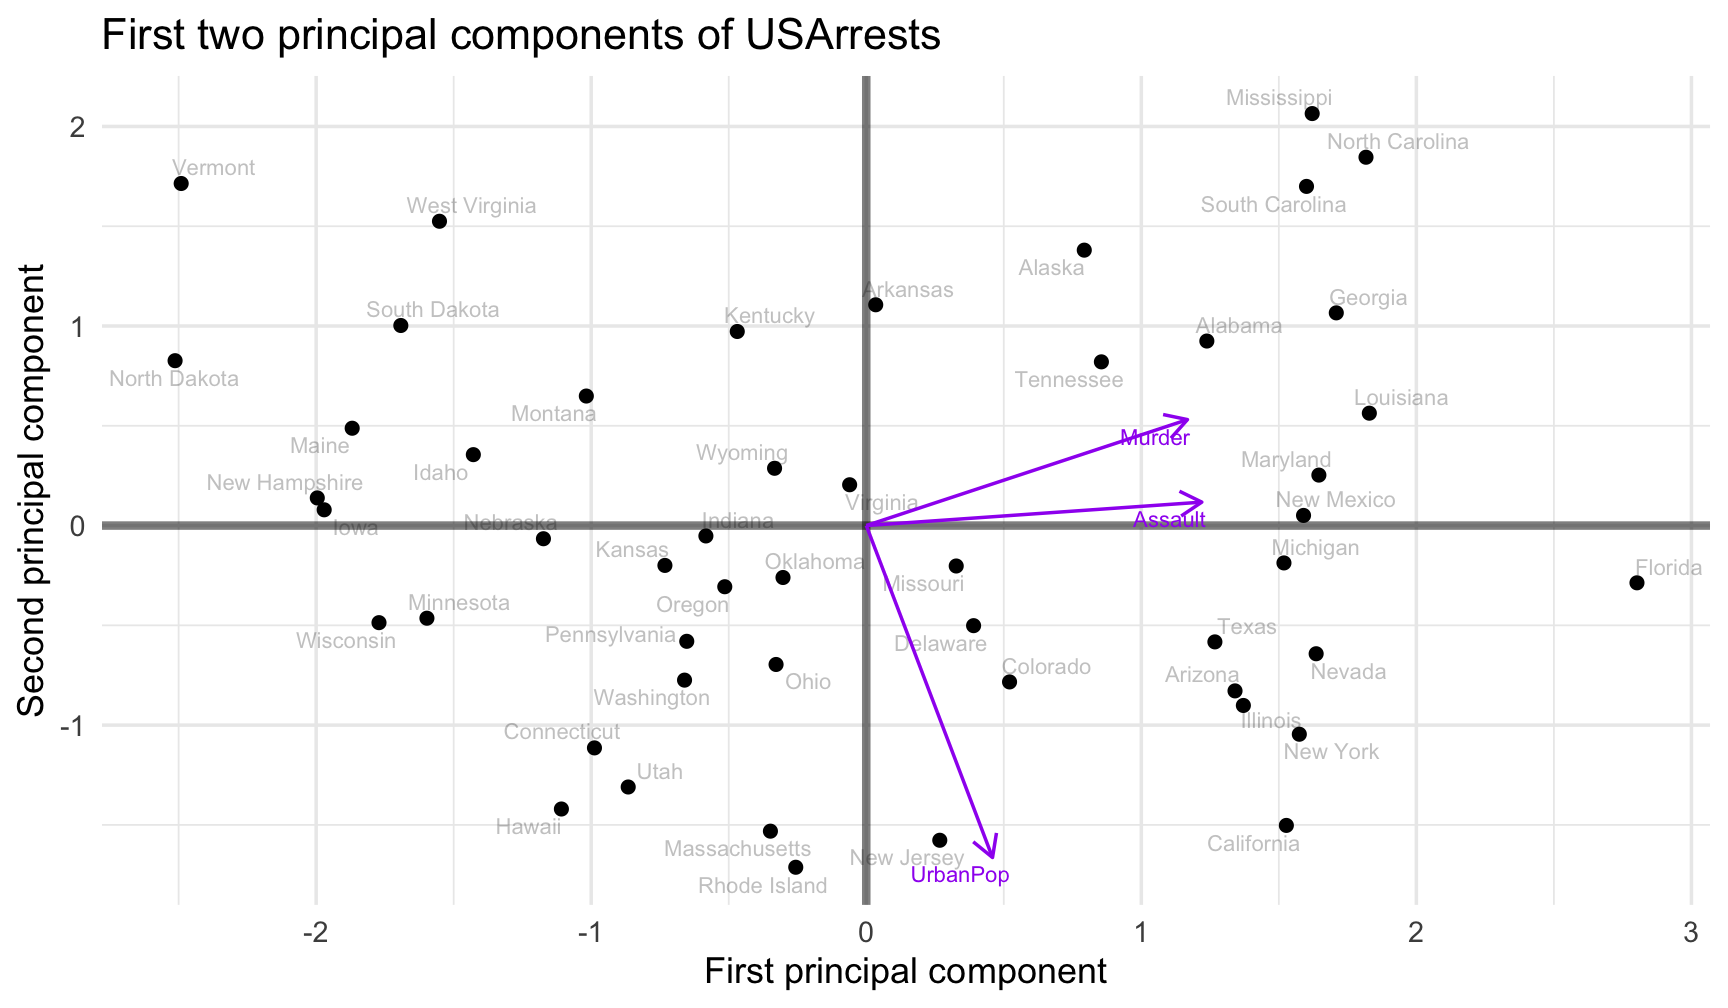
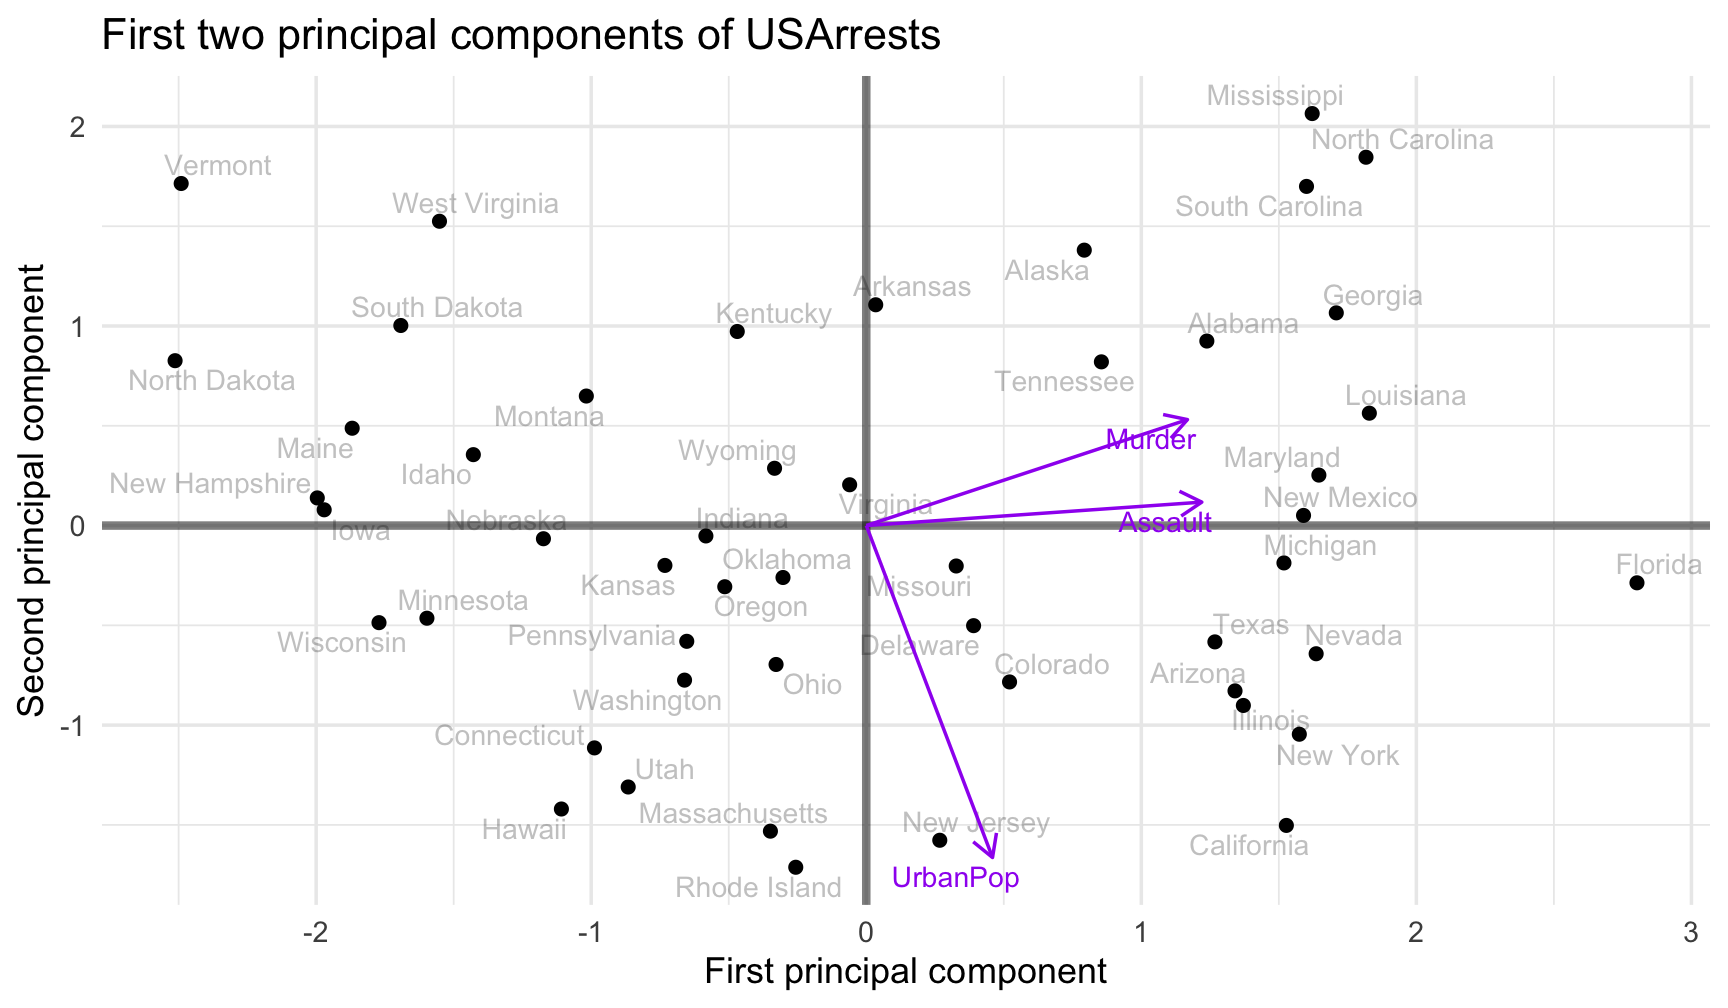
update matrix formatting

diff --git a/docs/06-matrix-inversion-decomposition.html b/docs/06-matrix-inversion-decomposition.html
@@ -131,9 +131,11 @@ x_{41} &amp; x_{42} &amp; x_{43}  \\
 * `$$\mid \mathbf{X} \mid = \sum_{j=1}^n (-1)^{i+j} x_{ij} \mid\mathbf{X}_{[ij]}\mid$$`
   * NOTE: we can add across any one row or column (just be consistent)
 
-* `\(ij\)`th **minor** of `\(\mathbf{X}\)` for `\(x_{ij}\)`, `\(\mid\mathbf{X}_{[ij]}\mid\)`
-    * Determinant of the `\((n - 1) \times (n - 1)\)` submatrix that results from taking the `\(i\)`th row and `\(j\)`th column out
-    * Refer to this resulting submatrix as `\(\mathbf{M_{ij}}\)`
+* `\(ij\)`th **minor** of `\(\mathbf{X}\)` for `\(x_{ij}\)`
+    * The **submatrix** `\(\mathbf{X}_{[ij]}\)` is what remains after deleting the
+      `\(i\)`th row and `\(j\)`th column --- an `\((n-1) \times (n-1)\)` matrix
+    * The **minor** `\(M_{ij} = \mid \mathbf{X}_{[ij]} \mid\)` is its determinant ---
+      a single number
 * **Cofactor** of `\(\mathbf{X}\)`
     * Minor signed as `\((-1)^{i+j}\mid\mathbf{X}_{[ij]}\mid\)`
 * Cycle recursively through columns
@@ -201,7 +203,7 @@ You can also create the cofactor matrix using your work from the determinant wor
 `\(\mathbf{M_{33}} = \left|\begin{bmatrix}  1&amp; 2 \\ 2 &amp; 1 \end{bmatrix}\right|=1-4=-3\)`
 
 ---
-# Answer: `\(3 \times 3 matrix\)`
+# Answer: `\(3 \times 3\)` matrix
 * Create cofactor matrix
 `$$\begin{aligned}\begin{bmatrix}
 1 \mathbf{M_{11}} &amp; -1\mathbf{M_{12}} &amp; 1\mathbf{M_{13}} \\
@@ -220,7 +222,7 @@ You can also create the cofactor matrix using your work from the determinant wor
 \end{bmatrix}\end{aligned}$$`
 ---
 
-# Answer: `\(3 \times 3 matrix\)`
+# Answer: `\(3 \times 3\)` matrix
 
 `$$\mid \mathbf{X} \mid = \sum_{j=1}^n (-1)^{i+j} x_{ij} \mid\mathbf{X}_{[ij]}\mid$$`
 
@@ -613,7 +615,7 @@ Y_{n} &amp; = \beta_{0} + \beta_{1} x_{n1} + \beta_{2} x_{n2} + \ldots + \beta_{
 * `\(\mathbf{x}_{i} = (1, x_{i1}, x_{i2}, \ldots, x_{ik})\)`
 
  `\(\mathbf{Y} = \begin{bmatrix}Y_{1} \\ Y_{2} \\  \vdots \\ Y_{n}\end{bmatrix}\)`, 
- `\(\boldsymbol{\beta} = \begin{bmatrix}\boldsymbol{\beta}_{0} \\ \boldsymbol{\beta}_{1} \\ \vdots \\ \boldsymbol{\beta}_{k} \end{bmatrix}\)`,
+ `\(\boldsymbol{\beta} = \begin{bmatrix}{\beta}_{0} \\ {\beta}_{1} \\ \vdots \\ {\beta}_{k} \end{bmatrix}\)`,
  `\(\mathbf{X} = \begin{bmatrix} \mathbf{x}_{1}\\\mathbf{x}_{2}\\ \vdots \\ \mathbf{x}_{n} \end{bmatrix}\)`
 
 ---
@@ -622,7 +624,7 @@ Y_{n} &amp; = \beta_{0} + \beta_{1} x_{n1} + \beta_{2} x_{n2} + \ldots + \beta_{
 
 GOAL: find `\(\boldsymbol{\beta}\)`
 `$$\begin{aligned}
-\mathbf{Y} &amp;= \mathbf{X}\mathbf{\beta} \\\end{aligned}$$`
+\mathbf{Y} &amp;= \mathbf{X}\boldsymbol{\beta} \\\end{aligned}$$`
 
 
 * Ok, so, we have an `\(\mathbf{X}\)`. We want to 'undo' it, so we need the inverse. Is it invertible? How do we make sure? 
@@ -632,23 +634,23 @@ GOAL: find `\(\boldsymbol{\beta}\)`
 * Ah, yes, we multiply it by its transpose. It will certainly be square (and likely invertible) then
 
 `$$\begin{aligned}
-\mathbf{X}^{'} \mathbf{Y} &amp;= \mathbf{X}^{'} \mathbf{X} \mathbf{\beta} \\\end{aligned}$$`
+\mathbf{X}^{'} \mathbf{Y} &amp;= \mathbf{X}^{'} \mathbf{X} \boldsymbol{\beta} \\\end{aligned}$$`
 
 --
 * Great! Now, we can 'undo' this (inverse-land)
 --
 `$$\begin{aligned}
 (\mathbf{X}^{'}\mathbf{X})^{-1} \mathbf{X}^{'} \mathbf{Y} &amp;= 
-(\mathbf{X}^{'}\mathbf{X})^{-1}\mathbf{X}^{'} \mathbf{X} \mathbf{\beta} \\ \end{aligned}$$`
+(\mathbf{X}^{'}\mathbf{X})^{-1}\mathbf{X}^{'} \mathbf{X} \boldsymbol{\beta} \\ \end{aligned}$$`
 --
 
 `$$\begin{aligned}
-(\mathbf{X}^{'}\mathbf{X})^{-1} \mathbf{X}^{'} \mathbf{Y} &amp;=\mathbf{I}\mathbf{\beta} 
+(\mathbf{X}^{'}\mathbf{X})^{-1} \mathbf{X}^{'} \mathbf{Y} &amp;=\mathbf{I}\boldsymbol{\beta} 
 \end{aligned}$$`
 
 --
 `$$\begin{aligned}
-(\mathbf{X}^{'}\mathbf{X})^{-1} \mathbf{X}^{'} \mathbf{Y} &amp;=\mathbf{\beta} 
+(\mathbf{X}^{'}\mathbf{X})^{-1} \mathbf{X}^{'} \mathbf{Y} &amp;=\boldsymbol{\beta} 
 \end{aligned}$$`
 
 ---
@@ -739,7 +741,7 @@ We can start with our eigenvalue (let's begin with `\(\lambda = -2\)`). We then 
 
 --
 
-`\(\begin{pmatrix}\lambda &amp; -4 \\ -1 &amp; \lambda\end{pmatrix}\begin{pmatrix}v_1 \\ v_2\end{pmatrix}= \begin{pmatrix}0\\ 0 \end{pmatrix\)` becomes `\(-2v_1 - 4v_2 =0\)` and
+`\(\begin{pmatrix}\lambda &amp; -4 \\ -1 &amp; \lambda\end{pmatrix}\begin{pmatrix}v_1 \\ v_2\end{pmatrix}= \begin{pmatrix}0\\ 0 \end{pmatrix}\)` becomes `\(-2v_1 - 4v_2 =0\)` and
 `\(-v_1 - 2v_2 = 0\)`
 
 --
@@ -883,9 +885,9 @@ In either case, the goal is to reduce the dimensionality of the data by identify
 
 # Calculating the PCA
 
-`$$\mathbf{M} = \mathbf{U} \boldsymbol{\Sigma} \mathbf{V}^{*}$$`
+`$$\mathbf{M} = \mathbf{U} \boldsymbol{\Sigma} \mathbf{V}^{'}$$`
 
-* `\(\mathbf{V}^{*}\)` = principal directions (eigenvector)
+* `\(\mathbf{V}^{'}\)` = principal directions (eigenvector)
 * Columns of `\(\mathbf{U} \boldsymbol{\Sigma}\)` = principal components (values along eigenvector)
 * Values of the diagonal elements of `\(\boldsymbol{\Sigma}\)` `\(\approx\)` eigenvalues
 
@@ -943,7 +945,7 @@ In either case, the goal is to reduce the dimensionality of the data by identify
 * Works with any rectangular matrix 
 * `\(\mathbf{M}\)` is an `\(m \times n\)` matrix. There exists a factorization of the form
 
-    `$$\mathbf{M} = \mathbf{U} \boldsymbol{\Sigma} \mathbf{V}^{*}$$`
+    `$$\mathbf{M} = \mathbf{U} \boldsymbol{\Sigma} \mathbf{V}^{'}$$`
 
     where
 
@@ -957,117 +959,146 @@ In either case, the goal is to reduce the dimensionality of the data by identify
 
 
 
-
-
----
-
-&lt;!-- # Image compression --&gt;
-
-&lt;!-- ```{r str-lion} --&gt;
-&lt;!-- # first rows and columns of R --&gt;
-&lt;!-- lion[1:5, 1:5] --&gt;
-&lt;!-- ``` --&gt;
+&lt;img src="06-matrix-inversion-decomposition_files/figure-html/read-image-1.png" alt="" width="864" style="display: block; margin: auto;" /&gt;
 
 ---
 
-&lt;!-- # Applying SVD --&gt;
+# Image compression
 
-&lt;!-- ```{r svd} --&gt;
-&lt;!-- lion.svd &lt;- svd(lion) --&gt;
-&lt;!-- ``` --&gt;
 
-&lt;!-- ##### `\(\mathbf{U}\)` --&gt;
-
-&lt;!-- ```{r lion-u} --&gt;
-&lt;!-- lion.svd$u[1:3, 1:3] --&gt;
-&lt;!-- ``` --&gt;
-
-&lt;!-- ##### `\(\boldsymbol{\Sigma}\)` --&gt;
-
-&lt;!-- ```{r lion-sigma} --&gt;
-&lt;!-- diag(lion.svd$d)[1:3, 1:3] --&gt;
-&lt;!-- ``` --&gt;
-
-&lt;!-- ##### `\(\mathbf{V}^{*}\)` --&gt;
-
-&lt;!-- ```{r lion-vstar} --&gt;
-&lt;!-- lion.svd$v[1:3, 1:3] --&gt;
-&lt;!-- ``` --&gt;
-
-&lt;!-- --- --&gt;
-
-&lt;!-- # Recovering the data --&gt;
-
-&lt;!-- * Multiply back together --&gt;
-
-&lt;!--     `$$\mathbf{M} = \mathbf{U} \boldsymbol{\Sigma} \mathbf{V}^{*}$$` --&gt;
-
-&lt;!-- ```{r svd-recombine} --&gt;
-&lt;!-- svd.rank(lion.svd, j = ncol(lion))[1:5, 1:5] --&gt;
-&lt;!-- ``` --&gt;
-
-&lt;!-- --- --&gt;
-
-&lt;!-- # Data reduction --&gt;
-
-&lt;!-- * `\(\boldsymbol{\Sigma}\)` --&gt;
-
-&lt;!-- ```{r svd-sigma-descend} --&gt;
-&lt;!-- lion.svd$d --&gt;
-&lt;!-- ``` --&gt;
+```
+##       [,1]  [,2]  [,3]  [,4]  [,5]
+## [1,] 0.361 0.369 0.381 0.393 0.403
+## [2,] 0.365 0.373 0.385 0.397 0.407
+## [3,] 0.369 0.377 0.389 0.399 0.411
+## [4,] 0.377 0.385 0.395 0.407 0.420
+## [5,] 0.388 0.391 0.403 0.416 0.424
+```
 
 ---
 
-&lt;!-- # Data reduction --&gt;
+# Applying SVD
 
-&lt;!-- ```{r svd-sigma-prop} --&gt;
-&lt;!-- library(tidyverse) --&gt;
-&lt;!-- tibble( --&gt;
-&lt;!--   sigma2 = lion.svd$d^2, --&gt;
-&lt;!--   prop = sigma2 / sum(sigma2) --&gt;
-&lt;!-- ) %&gt;% --&gt;
-&lt;!--   mutate(row = row_number()) %&gt;% --&gt;
-&lt;!--   ggplot(aes(row, prop)) + --&gt;
-&lt;!--   geom_col() + --&gt;
-&lt;!--   scale_y_continuous(labels = scales::percent) + --&gt;
-&lt;!--   labs( --&gt;
-&lt;!--     x = expression(sigma[i]), --&gt;
-&lt;!--     y = "Percentage of variance explained" --&gt;
-&lt;!--   ) --&gt;
-&lt;!-- ``` --&gt;
 
-&lt;!-- --- --&gt;
 
-&lt;!-- # Draw image using rank 2 --&gt;
+##### `\(\mathbf{U}\)`
 
-&lt;!-- ```{r lions-rank1} --&gt;
-&lt;!-- svd.plot(lion.svd, 2) --&gt;
-&lt;!-- ``` --&gt;
 
-&lt;!-- --- --&gt;
+```
+##         [,1]    [,2]     [,3]
+## [1,] -0.0398 -0.0291 -0.02032
+## [2,] -0.0405 -0.0150 -0.00198
+## [3,] -0.0396 -0.0186 -0.01972
+```
 
-&lt;!-- # Different ranks --&gt;
+##### `\(\boldsymbol{\Sigma}\)`
 
-&lt;!-- ```{r lions-rank-all} --&gt;
-&lt;!-- lion_ranks &lt;- 2^seq(1:8) --&gt;
-&lt;!-- lion_ranks_images &lt;- map(.x = lion_ranks, --&gt;
-&lt;!--     .f = svd.rank, --&gt;
-&lt;!--     svd.out = lion.svd) --&gt;
-&lt;!-- names(lion_ranks_images) &lt;- lion_ranks --&gt;
 
-&lt;!-- map(lion_ranks_images, ~ as_tibble(.x) %&gt;% --&gt;
-&lt;!--         mutate(row = row_number()) %&gt;% --&gt;
-&lt;!--         gather(column, value, -row) %&gt;% --&gt;
-&lt;!--         mutate(column = parse_number(column))) %&gt;% --&gt;
-&lt;!--   bind_rows(.id = "rank") %&gt;% --&gt;
-&lt;!--   mutate(rank = as.numeric(rank)) %&gt;% --&gt;
-&lt;!--   ggplot(aes(row, -column, fill = value)) + --&gt;
-&lt;!--   geom_raster() + --&gt;
-&lt;!--   scale_fill_continuous(high = "white", low = "black", guide = "none") + --&gt;
-&lt;!--   ggtitle("Rank {closest_state}") + --&gt;
-&lt;!--   theme_void() + --&gt;
-&lt;!--   transition_states(states = rank, wrap = FALSE) --&gt;
-&lt;!-- ``` --&gt;
+```
+##      [,1] [,2] [,3]
+## [1,]  193  0.0  0.0
+## [2,]    0 29.2  0.0
+## [3,]    0  0.0 16.2
+```
+
+##### `\(\mathbf{V}^{'}\)`
+
+
+```
+##         [,1]    [,2]   [,3]
+## [1,] -0.0556 0.00838 0.0211
+## [2,] -0.0558 0.00848 0.0179
+## [3,] -0.0560 0.00874 0.0138
+```
+
+---
+
+# Recovering the data
+
+* Multiply back together
+
+    `$$\mathbf{M} = \mathbf{U} \boldsymbol{\Sigma} \mathbf{V}^{'}$$`
+
+
+```
+##       [,1]  [,2]  [,3]  [,4]  [,5]
+## [1,] 0.361 0.369 0.381 0.393 0.403
+## [2,] 0.365 0.373 0.385 0.397 0.407
+## [3,] 0.369 0.377 0.389 0.399 0.411
+## [4,] 0.377 0.385 0.395 0.407 0.420
+## [5,] 0.388 0.391 0.403 0.416 0.424
+```
+
+---
+
+# Data reduction
+
+* `\(\boldsymbol{\Sigma}\)`
+
+
+```
+##   [1] 193.4417  29.1733  16.1600  14.9806  12.1708  11.3756  10.5788   8.9693
+##   [9]   8.3404   7.6359   7.4752   6.8798   6.1244   5.9575   5.5327   5.3978
+##  [17]   5.1953   4.8511   4.6521   4.6020   4.2501   4.1820   4.0820   4.0382
+##  [25]   3.8938   3.8375   3.7173   3.5563   3.5273   3.4986   3.4396   3.4027
+##  [33]   3.3417   3.2681   3.2025   3.1409   3.0671   3.0221   3.0124   2.9543
+##  [41]   2.8912   2.8365   2.8076   2.7306   2.6768   2.6547   2.6008   2.5562
+##  [49]   2.5353   2.5186   2.4892   2.4669   2.3997   2.3361   2.3274   2.2823
+##  [57]   2.2424   2.2378   2.1923   2.1692   2.1122   2.0840   2.0704   2.0510
+##  [65]   2.0241   2.0196   1.9849   1.9568   1.9305   1.9237   1.9052   1.8737
+##  [73]   1.8433   1.8222   1.8107   1.7891   1.7699   1.7554   1.7195   1.7039
+##  [81]   1.6870   1.6695   1.6453   1.6310   1.6101   1.5815   1.5727   1.5373
+##  [89]   1.5198   1.5105   1.4861   1.4748   1.4609   1.4378   1.4321   1.4016
+##  [97]   1.4001   1.3788   1.3624   1.3386   1.3301   1.3169   1.3057   1.2704
+## [105]   1.2593   1.2419   1.2376   1.2065   1.1922   1.1825   1.1741   1.1584
+## [113]   1.1405   1.1314   1.1157   1.1003   1.0921   1.0705   1.0602   1.0480
+## [121]   1.0406   1.0314   1.0191   0.9983   0.9939   0.9919   0.9634   0.9500
+## [129]   0.9434   0.9337   0.9213   0.9153   0.9044   0.8910   0.8777   0.8528
+## [137]   0.8458   0.8419   0.8246   0.8196   0.8005   0.7967   0.7924   0.7866
+## [145]   0.7734   0.7591   0.7564   0.7469   0.7365   0.7283   0.7198   0.7159
+## [153]   0.7118   0.7009   0.6926   0.6874   0.6817   0.6634   0.6552   0.6517
+## [161]   0.6493   0.6352   0.6184   0.6127   0.6073   0.6039   0.6014   0.5949
+## [169]   0.5915   0.5810   0.5767   0.5627   0.5547   0.5456   0.5381   0.5351
+## [177]   0.5310   0.5247   0.5211   0.5139   0.5025   0.4998   0.4966   0.4808
+## [185]   0.4763   0.4725   0.4613   0.4552   0.4529   0.4471   0.4411   0.4374
+## [193]   0.4326   0.4309   0.4232   0.4178   0.4152   0.4047   0.4005   0.3970
+## [201]   0.3884   0.3795   0.3790   0.3770   0.3705   0.3690   0.3597   0.3535
+## [209]   0.3506   0.3465   0.3434   0.3387   0.3341   0.3243   0.3201   0.3183
+## [217]   0.3099   0.3073   0.3020   0.2980   0.2972   0.2953   0.2911   0.2826
+## [225]   0.2787   0.2738   0.2705   0.2644   0.2584   0.2542   0.2533   0.2472
+## [233]   0.2424   0.2397   0.2356   0.2320   0.2300   0.2268   0.2205   0.2187
+## [241]   0.2160   0.2096   0.2077   0.1980   0.1961   0.1930   0.1895   0.1891
+## [249]   0.1853   0.1814   0.1798   0.1772   0.1720   0.1704   0.1681   0.1658
+## [257]   0.1650   0.1617   0.1539   0.1523   0.1483   0.1457   0.1436   0.1424
+## [265]   0.1367   0.1360   0.1332   0.1304   0.1276   0.1265   0.1259   0.1232
+## [273]   0.1201   0.1158   0.1119   0.1112   0.1079   0.1069   0.1044   0.1010
+## [281]   0.0993   0.0980   0.0934   0.0905   0.0900   0.0878   0.0868   0.0847
+## [289]   0.0838   0.0796   0.0763   0.0744   0.0733   0.0710   0.0682   0.0674
+## [297]   0.0671   0.0637   0.0612   0.0595   0.0570   0.0556   0.0537   0.0501
+## [305]   0.0485   0.0446   0.0435   0.0426   0.0401   0.0361   0.0354   0.0336
+## [313]   0.0311   0.0295   0.0286   0.0257   0.0248   0.0238   0.0235   0.0233
+## [321]   0.0224   0.0221   0.0218   0.0208   0.0203   0.0200   0.0195   0.0191
+## [329]   0.0184   0.0181   0.0175   0.0174   0.0170   0.0162   0.0157   0.0155
+## [337]   0.0152
+```
+
+---
+
+# Data reduction
+
+&lt;img src="06-matrix-inversion-decomposition_files/figure-html/svd-sigma-prop-1.png" alt="" width="864" style="display: block; margin: auto;" /&gt;
+
+---
+
+# Draw image using rank 2
+
+&lt;img src="06-matrix-inversion-decomposition_files/figure-html/lions-rank1-1.png" alt="" width="864" style="display: block; margin: auto;" /&gt;
+
+---
+
+# Different ranks
+
+&lt;img src="06-matrix-inversion-decomposition_files/figure-html/lions-rank-all-1.gif" alt="" style="display: block; margin: auto;" /&gt;
 
 
 ---
@@ -1087,12 +1118,13 @@ In either case, the goal is to reduce the dimensionality of the data by identify
 ---
 # Determinants, minors and cofactors: `\(n \times n\)` matrix
 
-`$$\mid \mathbf{X} \mid = \sum_{j=1}^n (-1)^{i+j} x_{ij} \mid\mathbf{X}_{[ij]}\mid$$`
+* `$$\mid \mathbf{X} \mid = \sum_{j=1}^n (-1)^{i+j} x_{ij} \mid\mathbf{X}_{[ij]}\mid$$`
   * NOTE: we can add across any one row or column (just be consistent)
-
-* `\(ij\)`th **minor** of `\(\mathbf{X}\)` for `\(x_{ij}\)`, `\(\mid\mathbf{X}_{[ij]}\mid\)`
-    * Determinant of the `\((n - 1) \times (n - 1)\)` submatrix that results from taking the `\(i\)`th row and `\(j\)`th column out
-    * Refer to this resulting submatrix at `\(\mathbf{M_{ij}}\)`
+* `\(ij\)`th **minor** of `\(\mathbf{X}\)` for `\(x_{ij}\)`
+    * The **submatrix** `\(\mathbf{X}_{[ij]}\)` is what remains after deleting the
+      `\(i\)`th row and `\(j\)`th column --- an `\((n-1) \times (n-1)\)` matrix
+    * The **minor** `\(M_{ij} = \mid \mathbf{X}_{[ij]} \mid\)` is its determinant ---
+      a single number
 * **Cofactor** of `\(\mathbf{X}\)`
     * Minor signed as `\((-1)^{i+j}\mid\mathbf{X}_{[ij]}\mid\)`
 * Cycle recursively through columns
